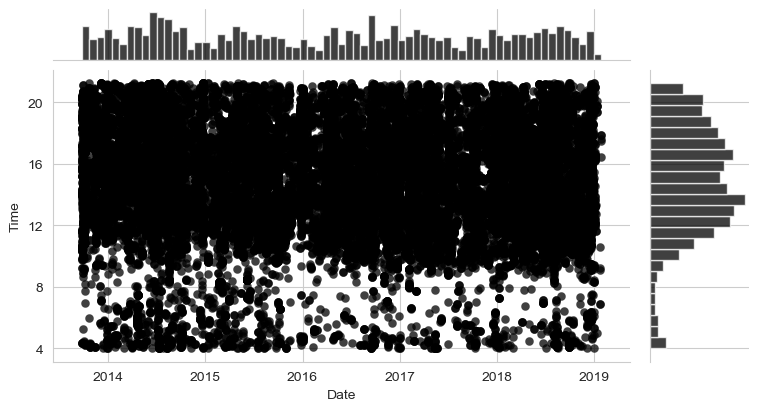
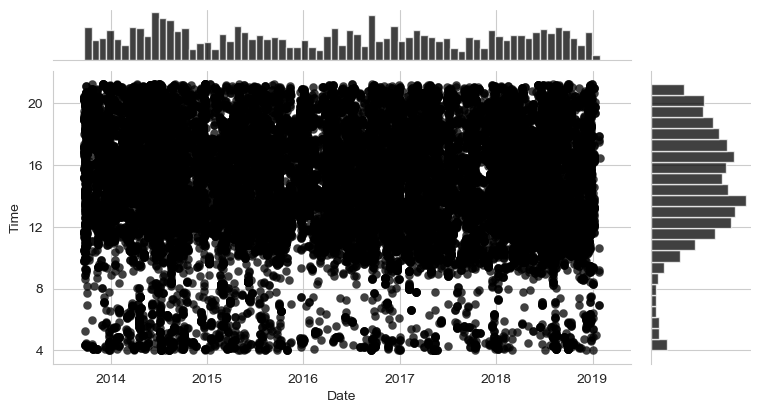
plots msg timestamps in method for all senders

diff --git a/chat_analysis/descriptive_analysis.py b/chat_analysis/descriptive_analysis.py
@@ -1,30 +1,19 @@
-import datetime
-
-import matplotlib.pyplot as plt
-import numpy as np
 import pandas as pd
-import seaborn as sns
 
+from chat_analysis.utils import plot_msg_overview
 from preprocess_data import MSG_TABLE_OUT_PATH
 
-sns.set_style("whitegrid")
 msg_table = pd.read_csv(MSG_TABLE_OUT_PATH, encoding="utf-8")
 msg_table["Datetime"] = pd.to_datetime(msg_table["Time"], format="%d.%m.%y, %H:%M")
 msg_table["Date"] = [t.date() for t in msg_table["Datetime"]]
 msg_table["Time"] = [t.time() for t in msg_table["Datetime"]]
 
-x = msg_table["Date"]
-y = [datetime.datetime.strptime(str(y), "%H:%M:%S") for y in msg_table["Time"]]
-y0 = datetime.datetime(y[0].year, y[0].month, y[0].day, 0, 0)
-y = [(yi - y0).seconds for yi in y]
-
-g = sns.JointGrid(x="Date", y="Time", data=msg_table)
-g.fig.set_figwidth(8)
-g.fig.set_figheight(4)
-g = g.plot_joint(plt.scatter, color="black", alpha=.75, linewidth=0.1)
-g.ax_joint.set_yticklabels(np.arange(0, 24, 4))
-g.ax_joint.set_ylabel("Time")
-g.ax_marg_x.hist(msg_table["Date"], bins=int(np.ceil((msg_table["Date"].max() - msg_table["Date"].min()).days) / 28),
-                 color="black", alpha=.75)
-g.ax_marg_y.hist(y, bins=24, color="black", alpha=.75, orientation="horizontal")
-g.savefig("chat_analysis/plots/mgs_time_date.png")
+senders = msg_table["Sender"].unique().tolist()
+senders.append(None)
+for sender in senders:
+    data = msg_table[msg_table["Sender"] == sender] if sender else msg_table
+    if sender:
+        path = "chat_analysis/plots/mgs_time_date_{}.png".format(sender)
+    else:
+        path = "chat_analysis/plots/mgs_time_date.png"
+    plot_msg_overview(data, path)

diff --git a/chat_analysis/utils/plotting_utils.py b/chat_analysis/utils/plotting_utils.py
@@ -1,0 +1,35 @@
+import datetime
+
+import matplotlib.pyplot as plt
+import numpy as np
+import seaborn as sns
+
+sns.set_style("whitegrid")
+plt.ioff()
+
+
+def plot_msg_overview(data, path):
+    """
+    Plots a joint consisting of a scatter plot displaying date and time when a message was sent and the marginal
+    histograms of the date and time variable to get insights of date based and daytime based activities
+
+    Args:
+        data: pandas data frame containing datetime information of all the messages. Should contain at least a "Time"
+            column in %H:%M:%S and a "Date" column in datetime format
+        path: Where to save the plot
+    """
+    y = [datetime.datetime.strptime(str(y), "%H:%M:%S") for y in data["Time"]]
+    y0 = datetime.datetime(y[0].year, y[0].month, y[0].day, 0, 0)
+    y = [(yi - y0).seconds for yi in y]
+
+    g = sns.JointGrid(x="Date", y="Time", data=data)
+    g.fig.set_figwidth(8)
+    g.fig.set_figheight(4)
+    g = g.plot_joint(plt.scatter, color="black", alpha=.75, linewidth=0.1)
+    g.ax_joint.set_yticklabels(np.arange(0, 24, 4))
+    g.ax_joint.set_ylabel("Time")
+    g.ax_marg_x.hist(data["Date"],
+                     bins=int(np.ceil((data["Date"].max() - data["Date"].min()).days) / 28),
+                     color="black", alpha=.75)
+    g.ax_marg_y.hist(y, bins=24, color="black", alpha=.75, orientation="horizontal")
+    g.savefig(path)

diff --git a/chat_analysis/utils/__init__.py b/chat_analysis/utils/__init__.py
@@ -1,0 +1,1 @@
+from .plotting_utils import plot_msg_overview
